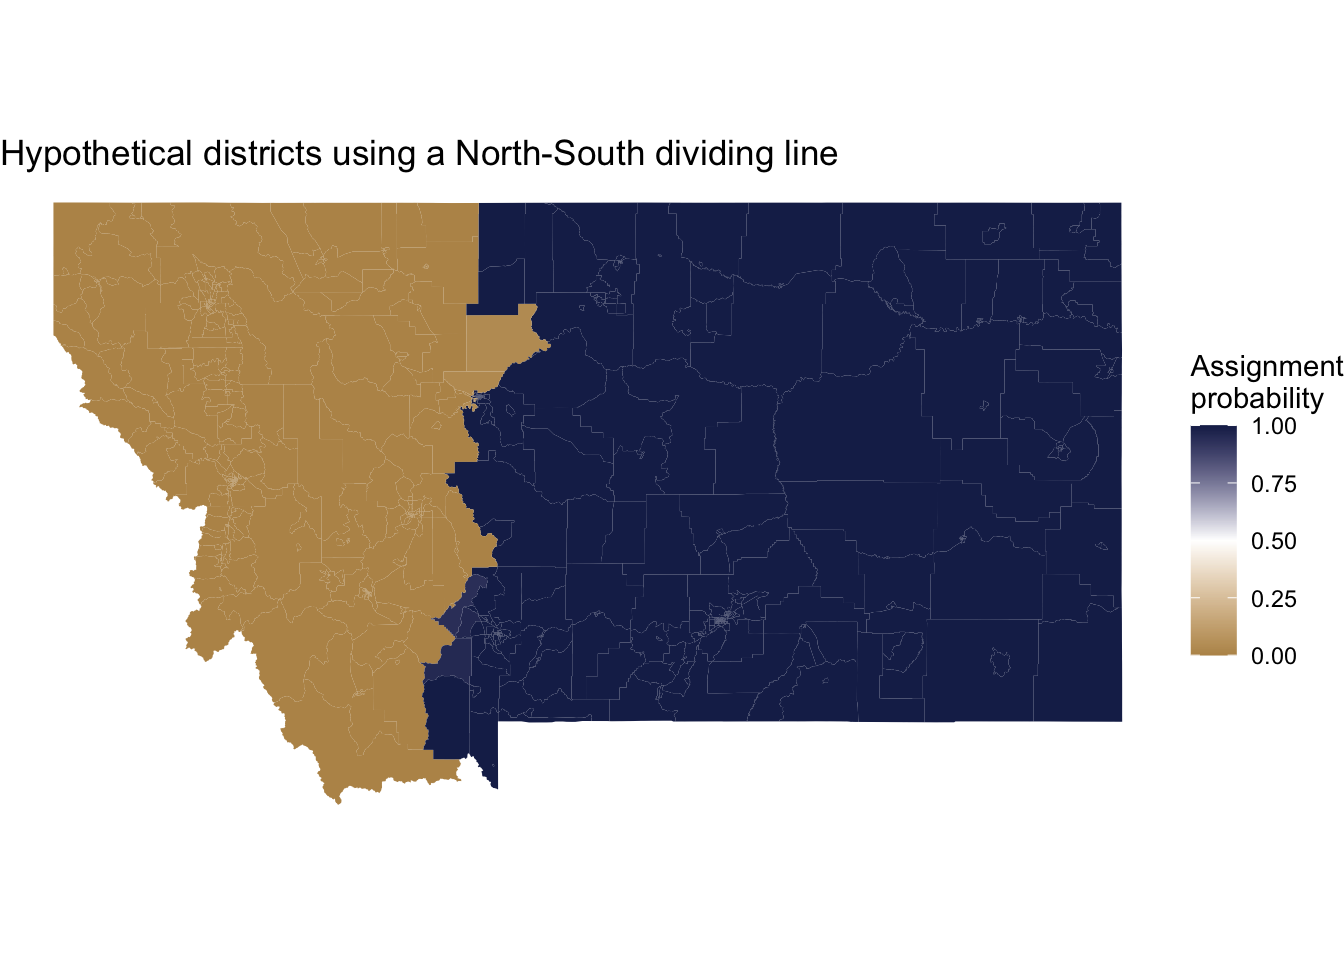
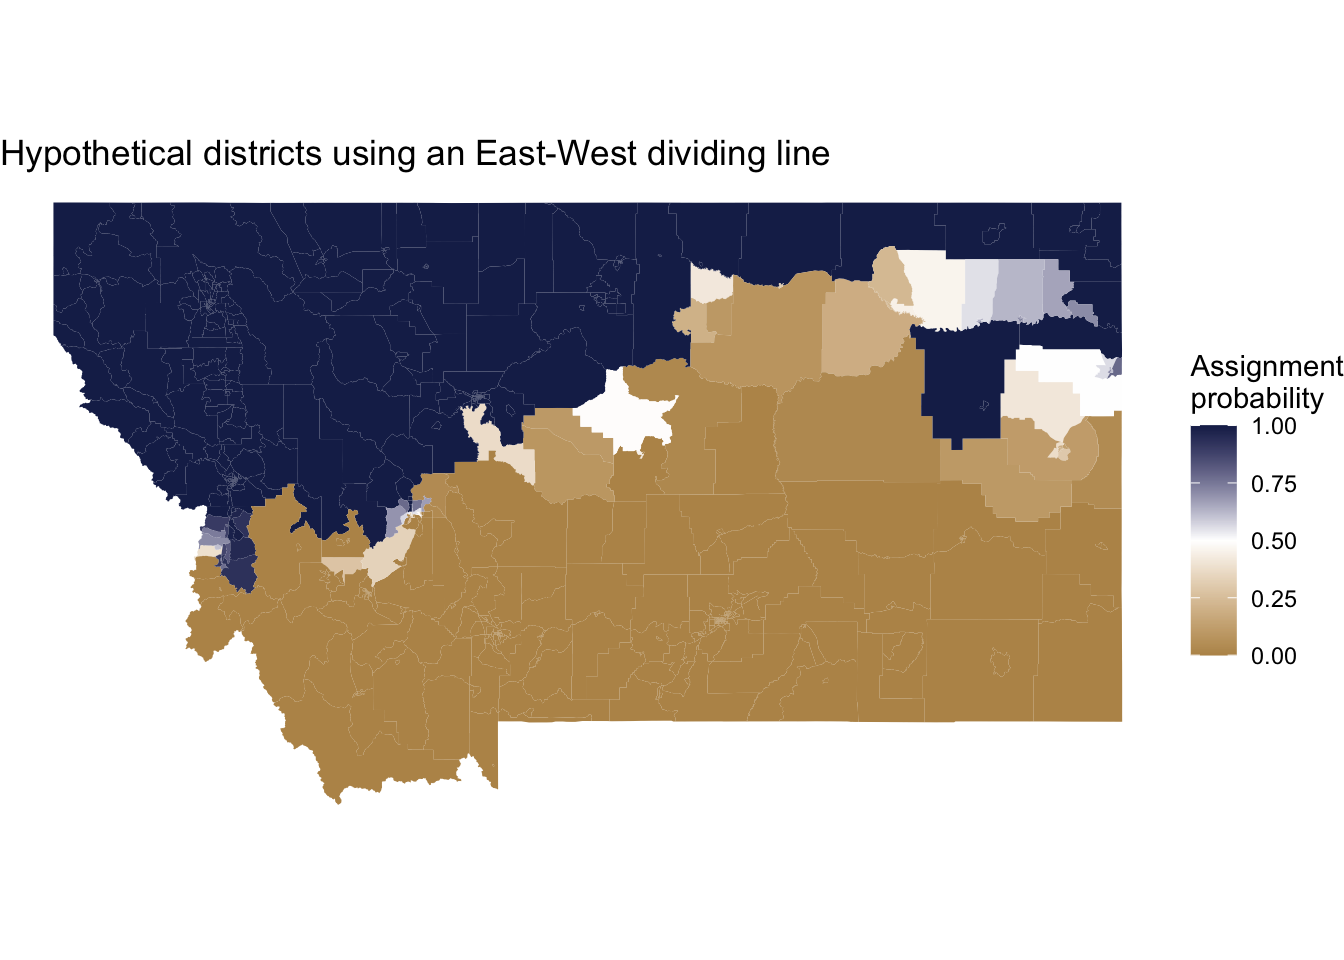
gis tag

diff --git a/content/post/mt-redistricting/index.html b/content/post/mt-redistricting/index.html
@@ -1,6 +1,6 @@
 ---
 title: "Exploring the possibilities of a second congressional district in Montana"
-categories: R
+categories: R, GIS
 date: '2021-01-13'
 image:
   preview_only: yes
@@ -158,6 +158,21 @@ seq(from = 44.66, to = 48.93, by = .01) %&gt;%
 <div id="using-markov-chain-monte-carlo-to-sample-hypothetical-districts" class="section level3">
 <h3>Using Markov Chain Monte Carlo to sample hypothetical districts</h3>
 <p>Bringing it all together, I can now implement the sampling method by feeding my inputs into the <code>redist::redist.mcmc()</code> function. After tinkering with the constraint parameters, I've decided to place equal weight on the population and compactness constraints. The result is 2,000 simulations of viable redistricting plans, half of which follow a roughly North-South dividing line and half of which follow a roughly East-West dividing line. The color scale, chosen in honor of MSU (Go Cats!), represents how likely a block group is to end up in either district across all of the simulated plans.</p>
+<pre class="r"><code>set.seed(59601)
+
+## North-South dividing line
+alg_mcmc_ns &lt;- redist.mcmc(
+  adjobj = adjlist,
+  popvec = bg$pop_est,
+  initcds = initcds$cd_ns,
+  nsims = 1000,
+  constraint = c(&quot;population&quot;, &quot;compact&quot;),
+  constraintweights = c(1, 1),
+  popcons = .01,
+  ssdmat = distmat,
+  savename = &quot;data/redist.mcmc&quot;
+) %&gt;% 
+  invisible()</code></pre>
 <pre><code>## 
 ## ==================== 
 ## redist.mcmc(): Automated Redistricting Simulation Using
@@ -211,7 +226,20 @@ seq(from = 44.66, to = 48.93, by = .01) %&gt;%
     title = &quot;Hypothetical districts using a North-South dividing line&quot;,
     fill = &quot;Assignment\nprobability&quot;
   )</code></pre>
-<p><img src="{{< relref "post/mt-redistricting/index.html" >}}index_files/figure-html/unnamed-chunk-11-1.png" width="672" /></p>
+<p><img src="{{< relref "post/mt-redistricting/index.html" >}}index_files/figure-html/unnamed-chunk-10-1.png" width="672" /></p>
+<pre class="r"><code>## East-West dividing line
+alg_mcmc_ew &lt;- redist.mcmc(
+  adjobj = adjlist,
+  popvec = bg$pop_est,
+  initcds = initcds$cd_ew,
+  nsims = 1000,
+  constraint = c(&quot;population&quot;, &quot;compact&quot;),
+  constraintweights = c(2, 1),
+  popcons = .01,
+  ssdmat = distmat,
+  savename = &quot;data/redist.mcmc&quot;
+) %&gt;% 
+  invisible()</code></pre>
 <pre><code>## 
 ## ==================== 
 ## redist.mcmc(): Automated Redistricting Simulation Using
@@ -265,7 +293,7 @@ seq(from = 44.66, to = 48.93, by = .01) %&gt;%
     title = &quot;Hypothetical districts using an East-West dividing line&quot;,
     fill = &quot;Assignment\nprobability&quot;
   )</code></pre>
-<p><img src="{{< relref "post/mt-redistricting/index.html" >}}index_files/figure-html/unnamed-chunk-13-1.png" width="672" /></p>
+<p><img src="{{< relref "post/mt-redistricting/index.html" >}}index_files/figure-html/unnamed-chunk-11-1.png" width="672" /></p>
 <p>It looks like the East-West dividing line is a lot &quot;fuzzier&quot; than the North-South line. While this is emphasized by the fact that the East-West line has to cut through geographically larger block groups in Eastern Montana, the distribution of district assignments generated from the North-South line is in fact more polarized. In other words, the algorithm didn't deviate from the original proposal very much at all when cutting North to South, suggesting a narrower distribution of possibilities that meet the stated constraints.</p>
 </div>
 </div>
@@ -301,7 +329,7 @@ seq(from = 44.66, to = 48.93, by = .01) %&gt;%
   geom_sf(data = sen_results, size = .25, fill = NA, color = &quot;blue&quot;) + 
   coord_sf(datum = NA) + 
   theme_void()</code></pre>
-<p><img src="{{< relref "post/mt-redistricting/index.html" >}}index_files/figure-html/unnamed-chunk-15-1.png" width="672" /></p>
+<p><img src="{{< relref "post/mt-redistricting/index.html" >}}index_files/figure-html/unnamed-chunk-13-1.png" width="672" /></p>
 <p>To select a &quot;final&quot; district map from both sets of possible plans, I'm splitting the block groups at 50% of the district assignment probability observed in the sample. By overlaying these final shapes with the precinct map, I'm finally able to split the election data up using the hypothetical districts.</p>
 <pre class="r"><code>ns_districts &lt;- 
   alg_mcmc_ns$partitions %&gt;% 
@@ -412,7 +440,7 @@ sen_results %&gt;%
     fill = &quot;Projected margin&quot;,
     caption = &quot;Estimates based on 2020 U.S. Senate precinct-level vote totals&quot;
   )</code></pre>
-<p><img src="{{< relref "post/mt-redistricting/index.html" >}}index_files/figure-html/unnamed-chunk-17-1.png" width="672" /></p>
+<p><img src="{{< relref "post/mt-redistricting/index.html" >}}index_files/figure-html/unnamed-chunk-15-1.png" width="672" /></p>
 <pre class="r"><code>sen_results %&gt;% 
   inner_join(ew_precincts, by = c(&quot;precinct_name&quot;, &quot;county&quot;)) %&gt;% 
   st_set_geometry(value = NULL) %&gt;% 
@@ -443,7 +471,7 @@ sen_results %&gt;%
     fill = &quot;Projected margin&quot;,
     caption = &quot;Estimates based on 2020 U.S. Senate precinct-level vote totals&quot;
   )</code></pre>
-<p><img src="{{< relref "post/mt-redistricting/index.html" >}}index_files/figure-html/unnamed-chunk-17-2.png" width="672" /></p>
+<p><img src="{{< relref "post/mt-redistricting/index.html" >}}index_files/figure-html/unnamed-chunk-15-2.png" width="672" /></p>
 <p>Obviously, things aren't looking too pretty for Democrats in Montana right now. We put forward a terrific slate of candidates and a strong campaign in 2020, but came up far short of where we needed to be. But I have faith that the party will carve out new paths to victory and be back to winning elections sometime soon. And the good news is that redistricting is likely to work in their favor, especially if the commission uses a North-South dividing line to create eastern and western districts.</p>
 <p>A western district would encompass high-growth counties like Missoula and Flathead, and if Democrats can stay competitive in Lewis &amp; Clark while maintaining a foothold in Butte, they'll have a chance to make the inaugural race under a new, two-district map very competitive. The shame would be that votes from Bozeman, which is probably the Democrats fastest growing stronghold, would be subsumed by the heavily conservative precincts in Eastern Montana. A preferable map would carve out more of the Western district to include Bozeman at the expense of Great Falls and East Helena, though I haven't run the numbers on the population split and this would be harder to defend as politically neutral.</p>
 <p>An East-West split, creating a northern district and a southern District, would be less advantageous. But this plan seems less likely to me — at a gut-level the map looks harder to justify, especially since the cultural divide in Montana is between the East and the West, and the two sides of the state would have fairly distinct preferences on a number of issues.</p>

diff --git a/content/post/pa-redistricting/index.html b/content/post/pa-redistricting/index.html
@@ -1,12 +1,12 @@
 ---
 title: "Redistricting in Pennsylvania"
-categories: R
+categories: R, GIS
 date: '2019-04-21'
 image:
   preview_only: yes
 share: false
 summary: Analyzing the partisan impact of court-ordered redistricting in Pennsylvania.
-tags: ["r", "gis"]
+tags: ["r", "gis", "redistricting"]
 
 authors: 
 - admin
